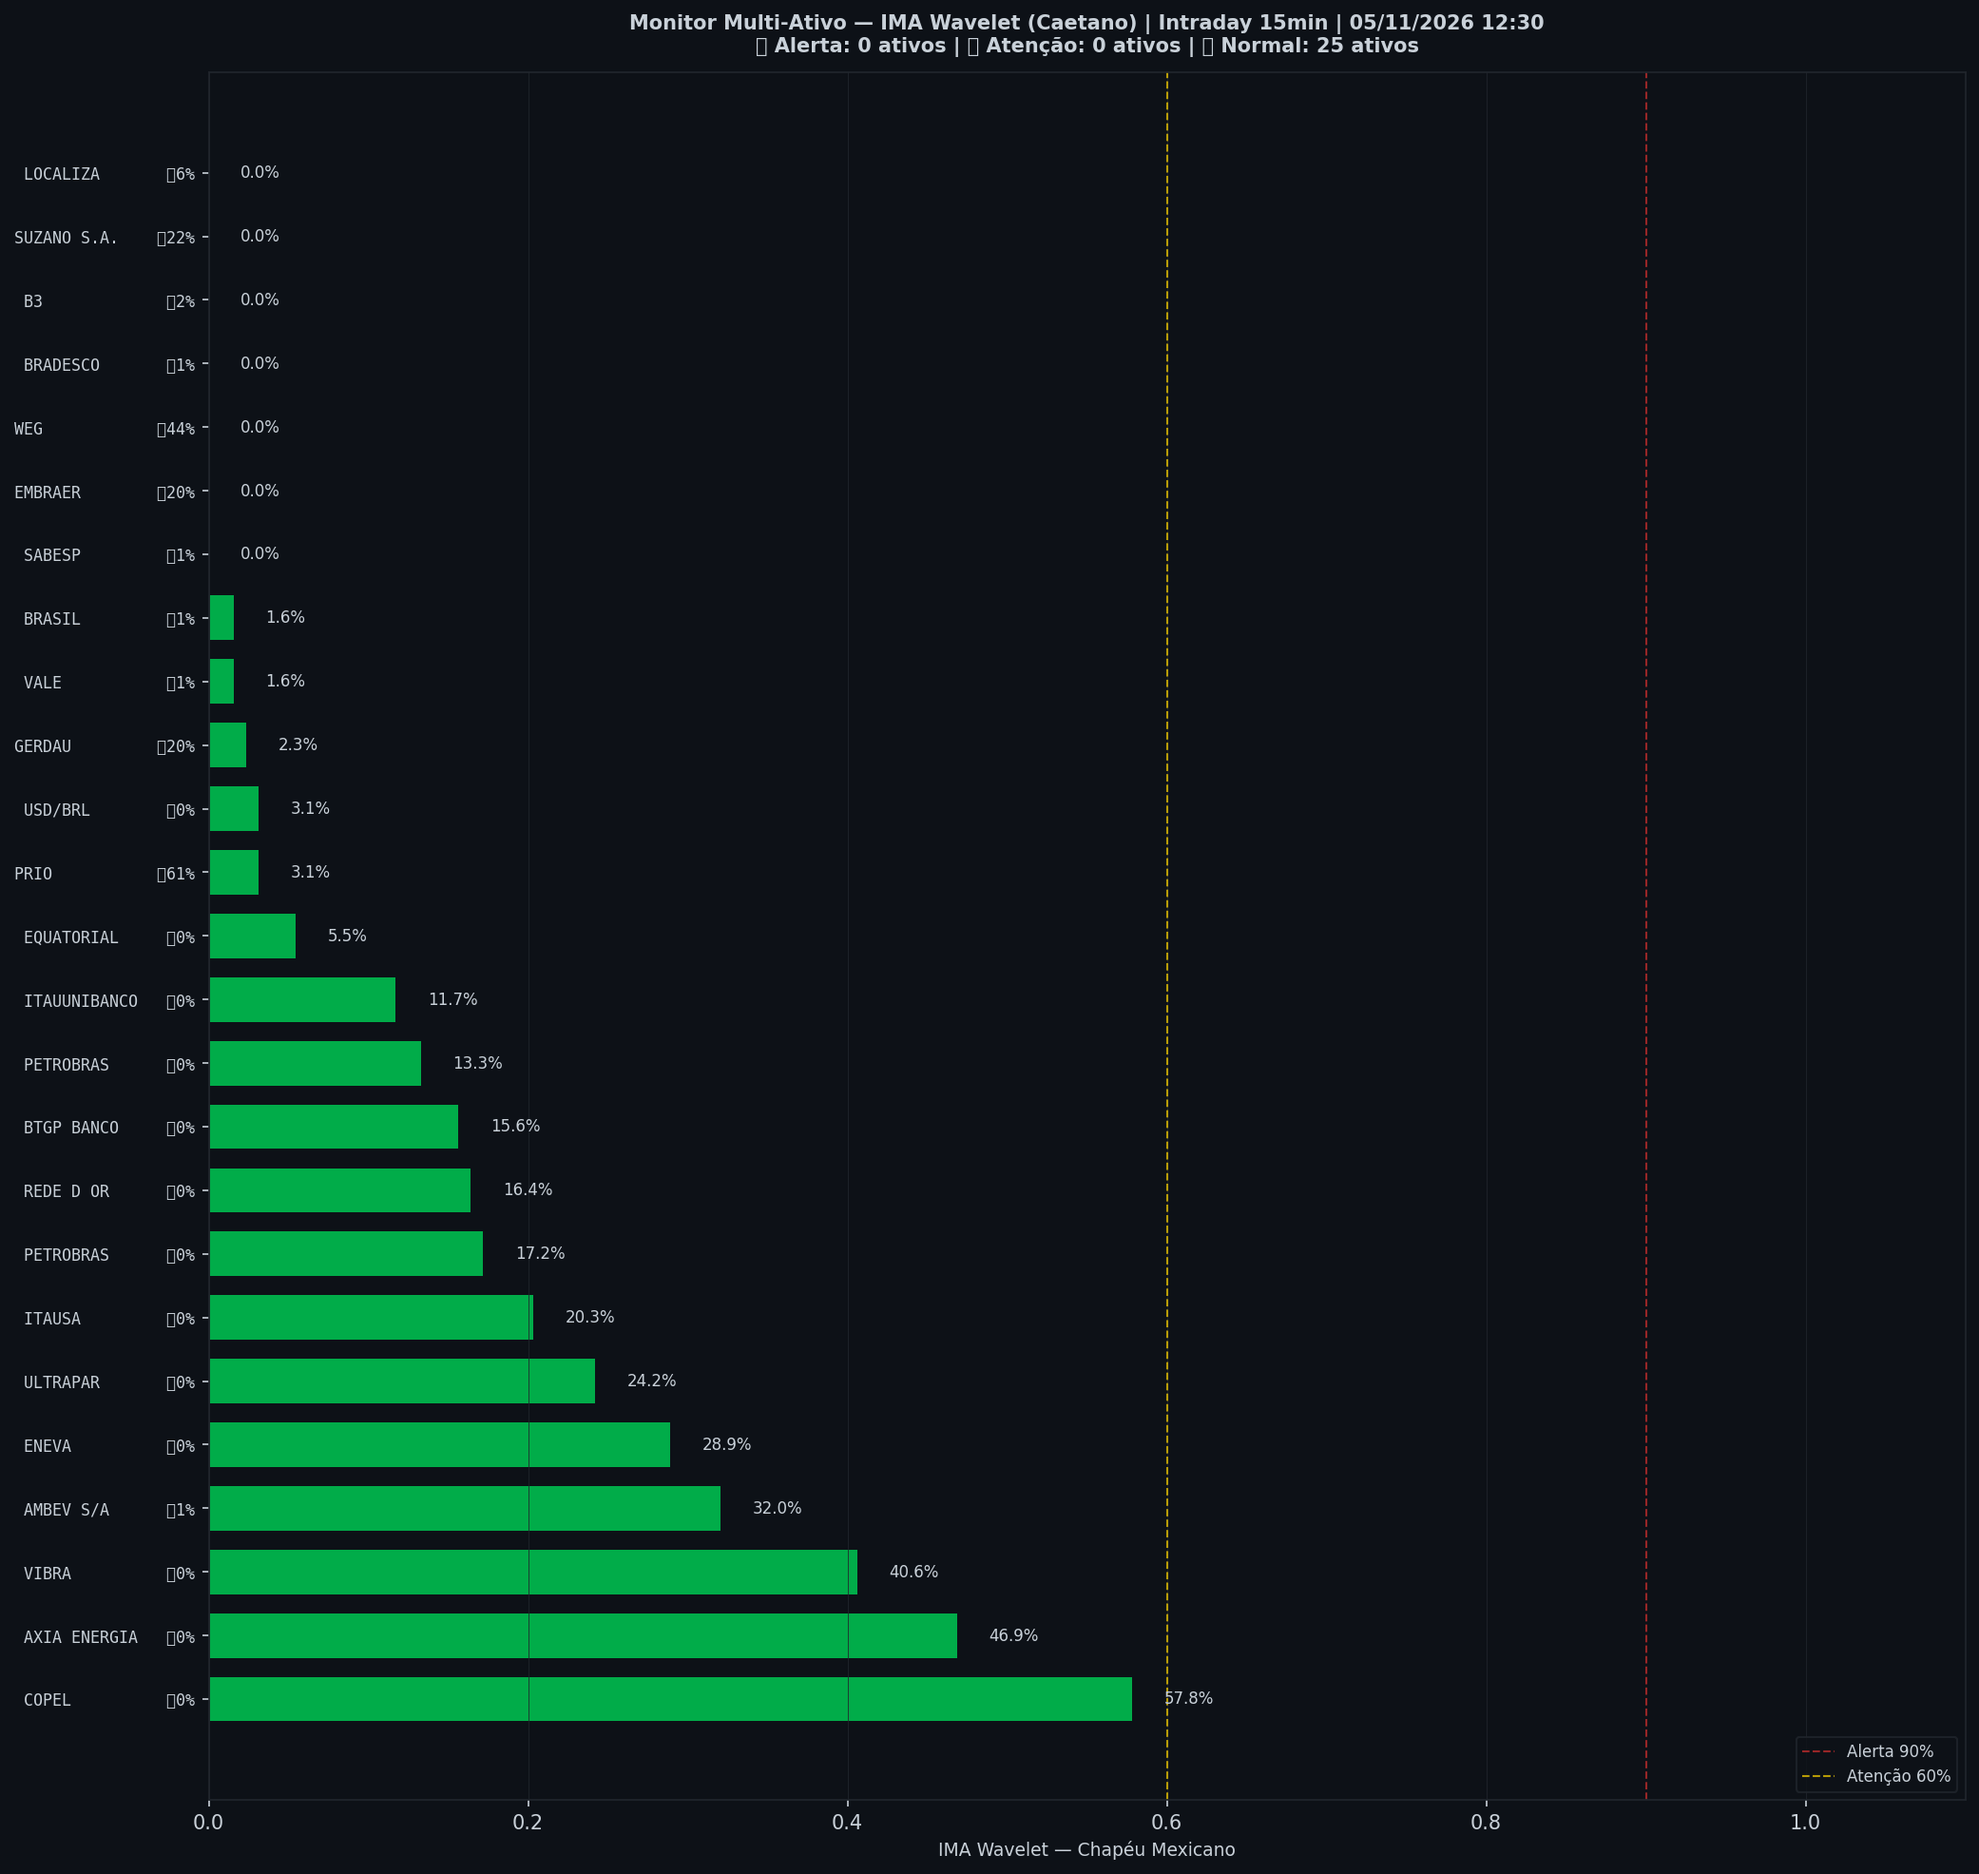
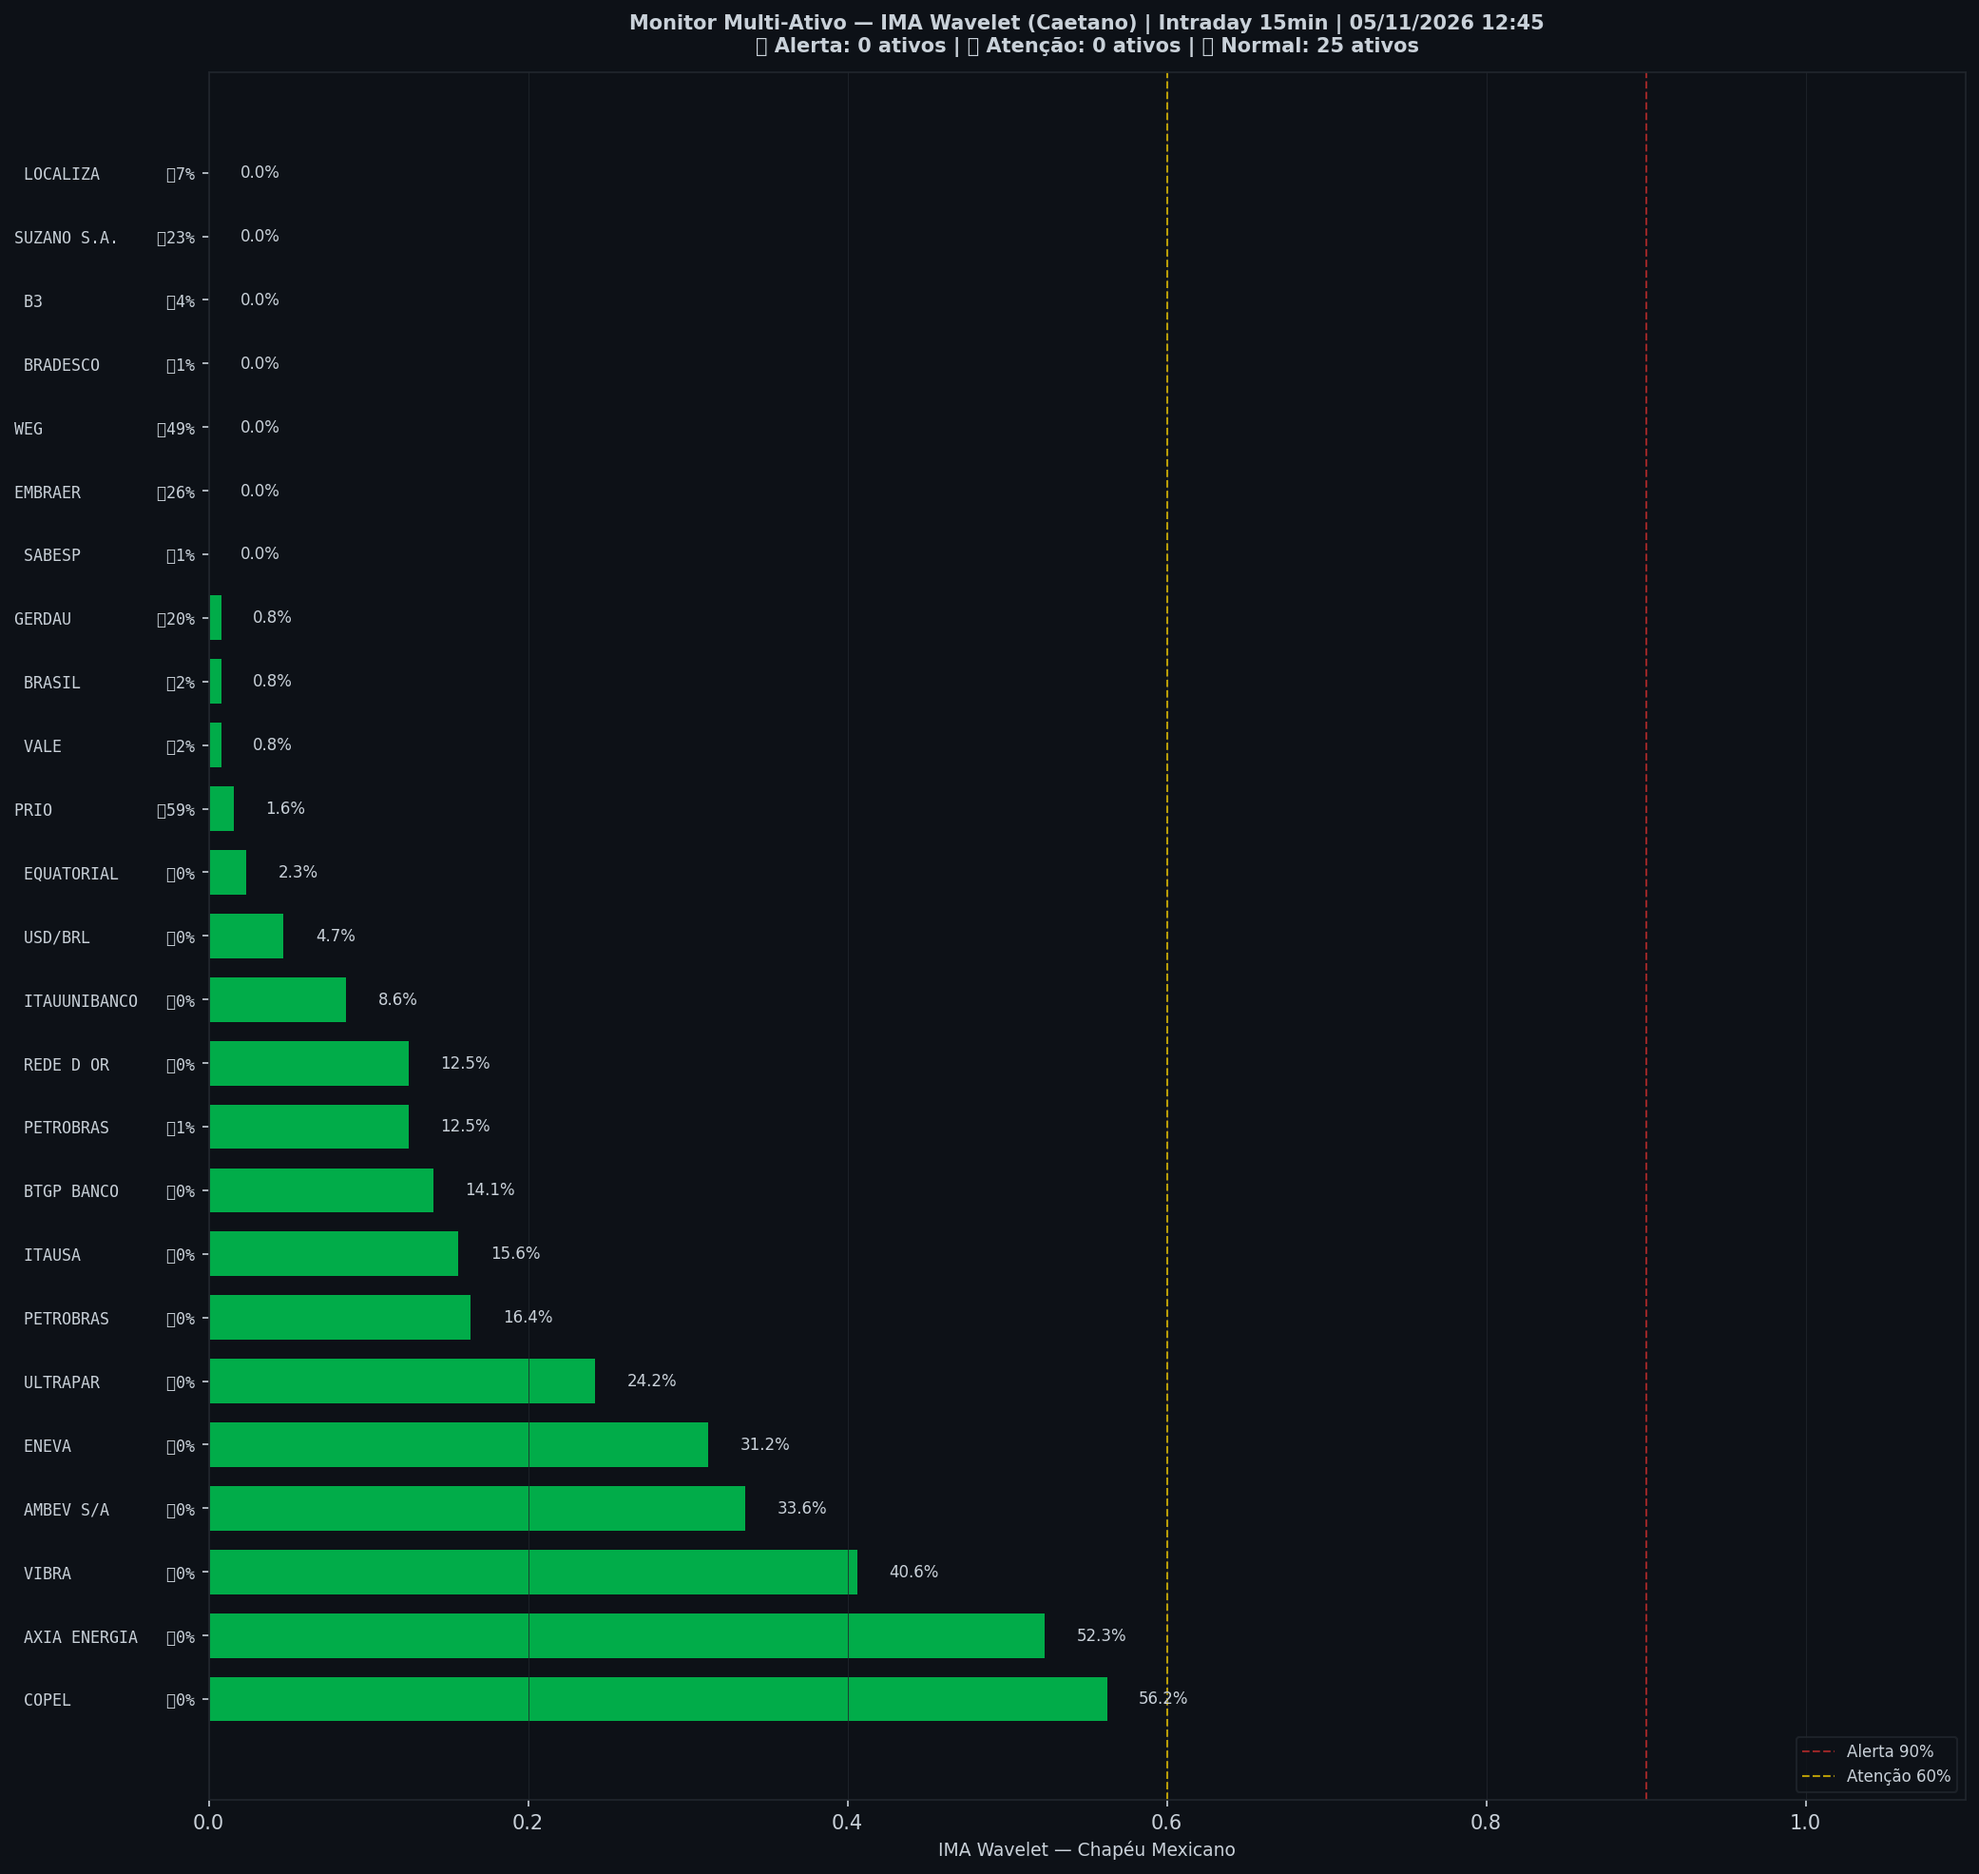
🤖 Auto: Sinal 05/11/2026 12:45

diff --git a/content/intraday/2026-11-05.md b/content/intraday/2026-11-05.md
@@ -1,11 +1,11 @@
 ---
-title: "🟢 Intraday 05/11/2026 12:15 BRT — VERDE"
+title: "🟢 Intraday 05/11/2026 12:30 BRT — VERDE"
 date: 2026-11-05
 tags: [intraday]
 ---
 
-> [!success] Onde o mercado está agora (05/11 12:15, candles de 15 min): **🟢 Calmo**
-> `Pânico ◀───────────●─────────▶ Euforia`
+> [!success] Onde o mercado está agora (05/11 12:30, candles de 15 min): **🟢 Calmo**
+> `Pânico ◀──────────●──────────▶ Euforia`
 >
 > O Ibovespa está dentro da sua faixa normal, sem excesso para cima nem para baixo.
 > No gráfico diário: 🔪 Queda forte em curso.
@@ -20,8 +20,8 @@ tags: [intraday]
 > | 📍 **Sinais** | hoje: nenhum sinal | [abrir](sinais-topo-fundo/) |
 > | 🧪 **Placar ao vivo** | 1 operação(ões), 0 com lucro, soma -0,8% | [abrir](operacoes/) |
 
-> [!success] IMA Intraday · 15 min (05/11 12:15): 🟢 **VERDE** — Risco 9% · ▼ -5 p.p. vs leitura anterior
-> `██░░░░░░░░░░░░░░░░░░`
+> [!success] IMA Intraday · 15 min (05/11 12:30): 🟢 **VERDE** — Risco 2% · ▼ -6 p.p. vs leitura anterior
+> `░░░░░░░░░░░░░░░░░░░░`
 > Preço na faixa normal em torno da tendência.
 
 
@@ -32,13 +32,13 @@ tags: [intraday]
 >
 > *Leitura educacional baseada em 26 anos de dados, não recomendação. [Como usar](../metodologia/crise#3-como-usar-na-prática).*
 
-| Indicador — IMA Intraday · 15 min (05/11 12:15) | Valor |
+| Indicador — IMA Intraday · 15 min (05/11 12:30) | Valor |
 |---|---|
-| 🔴 ζ Topo — preço esticado acima da tendência | **9%** |
-| 🔵 ζ Fundo — preço esticado abaixo da tendência | 0% |
+| 🔴 ζ Topo — preço esticado acima da tendência | **2%** |
+| 🔵 ζ Fundo — preço esticado abaixo da tendência | 1% |
 | 🫧 LPPL bolha — alta super-exponencial (risco de crash) | 0% |
 | 🫧 LPPL antibolha — queda super-exponencial (risco de repique) | 0% |
-| 📊 Ibovespa | 167.049 pts |
+| 📊 Ibovespa | 166.821 pts |
 
 ![Gráfico do sinal](../graficos/sinal_intraday.png)
 
@@ -46,6 +46,7 @@ tags: [intraday]
 
 | Data | Zona | Evento | Risco | ζ Topo | ζ Fundo | LPPL |
 |---|---|---|---|---|---|---|
+| 2026-11-05 12:30 | 🟢 VERDE |  | **2%** | 2% | 1% | 0% |
 | 2026-11-05 12:15 | 🟢 VERDE |  | **9%** | 9% | 0% | 0% |
 | 2026-11-05 12:00 | 🟢 VERDE |  | **13%** | 13% | 0% | 0% |
 | 2026-11-05 11:45 | 🟢 VERDE |  | **12%** | 12% | 0% | 0% |
@@ -75,42 +76,38 @@ tags: [intraday]
 | 2026-11-04 12:45 | 🟢 VERDE |  | **36%** | 36% | 0% | 0% |
 | 2026-11-04 12:30 | 🟢 VERDE |  | **33%** | 33% | 0% | 0% |
 | 2026-11-04 12:15 | 🟢 VERDE |  | **34%** | 34% | 0% | 0% |
-| 2026-11-04 12:00 | 🟢 VERDE |  | **34%** | 34% | 0% | 0% |
 
 <small>Destaques: 🟡 ≥ 60% · 🔴 ≥ 90% (Risco e ζ Topo) · 🔵 ≥ 60% · 🔪 ≥ 90% (ζ Fundo) · 🫧 ≥ 30% · 🫧🔴 ≥ 50% (LPPL)</small>
 
 ## Monitor Multi-Ativo
 
-**0% dos ativos em tensão** (0🔴 0🟡) · **1 com ζ Fundo alto** — quanto mais ativos disparam juntos, mais confiável o sinal.
-
-> [!warning] Em destaque no multi-ativo
-> 🔵 **PRIO** ζ Fundo 61%
+**0% dos ativos em tensão** (0🔴 0🟡) · **0 com ζ Fundo alto** — quanto mais ativos disparam juntos, mais confiável o sinal.
 
 | Zona | Ativo | Setor | ζ Topo | ζ Fundo |
 |---|---|---|---|---|
-| 🟢 | **PRIO** | Petróleo | 3.1% | 🔵 **60.9%** |
-| 🟢 | **COPEL** | Energia | 57.8% | 0.0% |
-| 🟢 | **AXIA ENERGIA** | Energia | 46.9% | 0.0% |
-| 🟢 | **WEG** | Industrial | 0.0% | 43.8% |
+| 🟢 | **PRIO** | Petróleo | 1.6% | 59.4% |
+| 🟢 | **COPEL** | Energia | 56.2% | 0.0% |
+| 🟢 | **AXIA ENERGIA** | Energia | 52.3% | 0.0% |
+| 🟢 | **WEG** | Industrial | 0.0% | 49.2% |
 | 🟢 | **VIBRA** | Energia | 40.6% | 0.0% |
-| 🟢 | **AMBEV S/A** | Consumo | 32.0% | 0.8% |
-| 🟢 | **ENEVA** | Energia | 28.9% | 0.0% |
+| 🟢 | **AMBEV S/A** | Consumo | 33.6% | 0.0% |
+| 🟢 | **ENEVA** | Energia | 31.2% | 0.0% |
+| 🟢 | **EMBRAER** | Outros | 0.0% | 25.8% |
 | 🟢 | **ULTRAPAR** | Outros | 24.2% | 0.0% |
-| 🟢 | **SUZANO S.A.** | Papel/Celulose | 0.0% | 21.9% |
-| 🟢 | **ITAUSA** | Financeiro | 20.3% | 0.0% |
-| 🟢 | **EMBRAER** | Outros | 0.0% | 20.3% |
-| 🟢 | **GERDAU** | Siderurgia | 2.3% | 20.3% |
-| 🟢 | **PETROBRAS** | Petróleo | 17.2% | 0.0% |
-| 🟢 | **REDE D OR** | Saúde | 16.4% | 0.0% |
-| 🟢 | **BTGP BANCO** | Financeiro | 15.6% | 0.0% |
-| 🟢 | **PETROBRAS** | Petróleo | 13.3% | 0.0% |
-| 🟢 | **ITAUUNIBANCO** | Financeiro | 11.7% | 0.0% |
-| 🟢 | **LOCALIZA** | Aluguel | 0.0% | 6.2% |
-| 🟢 | **EQUATORIAL** | Energia | 5.5% | 0.0% |
-| 🟢 | **USD/BRL** | Câmbio | 3.1% | 0.0% |
-| 🟢 | **B3** | Financeiro | 0.0% | 2.3% |
-| 🟢 | **VALE** | Mineração | 1.6% | 0.8% |
-| 🟢 | **BRASIL** | Financeiro | 1.6% | 0.8% |
+| 🟢 | **SUZANO S.A.** | Papel/Celulose | 0.0% | 23.4% |
+| 🟢 | **GERDAU** | Siderurgia | 0.8% | 19.5% |
+| 🟢 | **PETROBRAS** | Petróleo | 16.4% | 0.0% |
+| 🟢 | **ITAUSA** | Financeiro | 15.6% | 0.0% |
+| 🟢 | **BTGP BANCO** | Financeiro | 14.1% | 0.0% |
+| 🟢 | **PETROBRAS** | Petróleo | 12.5% | 0.8% |
+| 🟢 | **REDE D OR** | Saúde | 12.5% | 0.0% |
+| 🟢 | **ITAUUNIBANCO** | Financeiro | 8.6% | 0.0% |
+| 🟢 | **LOCALIZA** | Aluguel | 0.0% | 7.0% |
+| 🟢 | **USD/BRL** | Câmbio | 4.7% | 0.0% |
+| 🟢 | **B3** | Financeiro | 0.0% | 3.9% |
+| 🟢 | **BRASIL** | Financeiro | 0.8% | 2.3% |
+| 🟢 | **EQUATORIAL** | Energia | 2.3% | 0.0% |
+| 🟢 | **VALE** | Mineração | 0.8% | 1.6% |
 | 🟢 | **SABESP** | Saneamento | 0.0% | 0.8% |
 | 🟢 | **BRADESCO** | Financeiro | 0.0% | 0.8% |
 
@@ -118,7 +115,7 @@ tags: [intraday]
 
 ![Monitor multi-ativo](../graficos/multi_intraday.png)
 
-*Página atualizada em 05/11/2026 12:30 BRT (leitura da barra de 2026-11-05 12:15 BRT).*
+*Página atualizada em 05/11/2026 12:45 BRT (leitura da barra de 2026-11-05 12:30 BRT).*
 
 > [!warning] O que este indicador não faz
 > Medido em 5 anos de Ibovespa, o ζ **não antecipa** topos nem fundos: a capacidade de separar o que sobe do que cai ficou em 0,49–0,52, e 0,50 é moeda jogada ao ar. Ele descreve o estado de agora; não é aviso do que vem. As zonas verde/amarelo/vermelho continuam na página como descrição desse estado — **não as use como sinal de entrada ou saída**.

diff --git a/content/index.md b/content/index.md
@@ -6,10 +6,10 @@ tags: [home]
 
 **As ondas do mercado, explicadas.** Leitura do Ibovespa com estatística de 26 anos, baseada no trabalho de pesquisadores e traders reconhecidos e adaptada por Jarbas Daniel da Costa.
 
-*Última atualização: 05/11/2026 12:30 BRT · Intraday 15min*
+*Última atualização: 05/11/2026 12:45 BRT · Intraday 15min*
 
-> [!success] Onde o mercado está agora (05/11 12:15, candles de 15 min): **🟢 Calmo**
-> `Pânico ◀───────────●─────────▶ Euforia`
+> [!success] Onde o mercado está agora (05/11 12:30, candles de 15 min): **🟢 Calmo**
+> `Pânico ◀──────────●──────────▶ Euforia`
 >
 > O Ibovespa está dentro da sua faixa normal, sem excesso para cima nem para baixo.
 > No gráfico diário: 🔪 Queda forte em curso.
@@ -20,7 +20,7 @@ tags: [home]
 
 | Módulo | Agora | |
 |---|---|---|
-| 🌊 **Sinal de Crise** | 🟢 VERDE · 🟢 calmo · ζ Topo 9% | [relatório](intraday/2026-11-05) |
+| 🌊 **Sinal de Crise** | 🟢 VERDE · 🟢 calmo · ζ Topo 2% | [relatório](intraday/2026-11-05) |
 | 📈 **Tendência MME9** | Diário — fora<br>Semanal — fora | [abrir](operacoes/tendencia) |
 | 🎯 **Entradas do método** | ⏳ aguardando: Diário · Nadaraya, H4 · Semáforo N2, Diário · Semáforo N3 após ζ Fundo | [abrir](operacoes/entradas) |
 | 📍 **Sinais** | hoje: nenhum sinal | [abrir](sinais-topo-fundo/) |
@@ -54,18 +54,18 @@ tags: [home]
 > *Leitura educacional baseada em 26 anos de dados, não recomendação. [Como usar](metodologia/crise#3-como-usar-na-prática).*
 
 > [!info]- 🌊 Detalhes do Sinal de Crise (indicadores e últimos 7 pregões)
-> > [!success] IMA Intraday · 15 min (05/11 12:15): 🟢 **VERDE** — Risco 9% · ▼ -5 p.p. vs leitura anterior
-> > `██░░░░░░░░░░░░░░░░░░`
+> > [!success] IMA Intraday · 15 min (05/11 12:30): 🟢 **VERDE** — Risco 2% · ▼ -6 p.p. vs leitura anterior
+> > `░░░░░░░░░░░░░░░░░░░░`
 > > Preço na faixa normal em torno da tendência.
 >
 >
-> | Indicador — IMA Intraday · 15 min (05/11 12:15) | Valor |
+> | Indicador — IMA Intraday · 15 min (05/11 12:30) | Valor |
 > |---|---|
-> | 🔴 ζ Topo — preço esticado acima da tendência | **9%** |
-> | 🔵 ζ Fundo — preço esticado abaixo da tendência | 0% |
+> | 🔴 ζ Topo — preço esticado acima da tendência | **2%** |
+> | 🔵 ζ Fundo — preço esticado abaixo da tendência | 1% |
 > | 🫧 LPPL bolha — alta super-exponencial (risco de crash) | 0% |
 > | 🫧 LPPL antibolha — queda super-exponencial (risco de repique) | 0% |
-> | 📊 Ibovespa | 167.049 pts |
+> | 📊 Ibovespa | 166.821 pts |
 >
 > **Multi-ativo:** 0% em tensão (0🔴 0🟡 de 25 ativos)
 >
@@ -73,7 +73,7 @@ tags: [home]
 >
 > | Data | Zona | Risco | ζ Topo | ζ Fundo | LPPL |
 > |---|---|---|---|---|---|
-> | [05/11/2026](intraday/2026-11-05) | 🟢 VERDE | **9%** | 9% | 0% | 0% |
+> | [05/11/2026](intraday/2026-11-05) | 🟢 VERDE | **2%** | 2% | 1% | 0% |
 > | [04/11/2026](intraday/2026-11-04) | 🟢 VERDE | **4%** | 4% | 0% | 0% |
 >
 > <small>Destaques: 🟡 ≥ 60% · 🔴 ≥ 90% (Risco e ζ Topo) · 🔵 ≥ 60% · 🔪 ≥ 90% (ζ Fundo) · 🫧 ≥ 30% · 🫧🔴 ≥ 50% (LPPL)</small>

diff --git a/content/historico.md b/content/historico.md
@@ -5,7 +5,7 @@ tags: [historico]
 
 # 📜 Histórico de leituras (v5)
 
-**2.152 leituras** desde 2026-07-03. Na página ficam os últimos 3 dias leitura por leitura e o resumo de cada dia anterior; o registro inteiro está no arquivo para baixar.
+**2.153 leituras** desde 2026-07-03. Na página ficam os últimos 3 dias leitura por leitura e o resumo de cada dia anterior; o registro inteiro está no arquivo para baixar.
 
 [**Baixar o histórico completo**](historico-completo.csv) (94 KB · abre no Excel e no LibreOffice)
 
@@ -16,6 +16,7 @@ tags: [historico]
 
 | Data | Modo | Zona | Risco | IMA | LPPL |
 |---|---|---|---|---|---|
+| 2026-11-05 12:30 | intraday | 🟢 VERDE | 2% | 2% | 0% |
 | 2026-11-05 12:15 | intraday | 🟢 VERDE | 9% | 9% | 0% |
 | 2026-11-05 12:00 | intraday | 🟢 VERDE | 13% | 13% | 0% |
 | 2026-11-05 11:45 | intraday | 🟢 VERDE | 12% | 12% | 0% |

diff --git a/content/operacoes/ranking.md b/content/operacoes/ranking.md
@@ -5,7 +5,7 @@ tags: [operacoes]
 description: "As regras de compra do site ordenadas pelo resultado, com treino, teste e placar ao vivo"
 ---
 
-*Atualizado 05/11/2026 12:30 · histórico simulado com as regras congeladas em 23/10/2026 + placar ao vivo.*
+*Atualizado 05/11/2026 12:45 · histórico simulado com as regras congeladas em 23/10/2026 + placar ao vivo.*
 
 As regras de compra do site, **da que mais rendeu para a que menos rendeu**. O resultado é por operação, no índice à vista, sem custos e sem juros compostos (a soma é só a soma das operações). **Treino** = entradas de 2001 a 2013 e **teste** = 2014 em diante: uma regra só é confiável se ganhou nos dois. O único resultado sem nenhum ajuste ao histórico é o **placar ao vivo**.
 

diff --git a/content/linha-do-tempo/index.md b/content/linha-do-tempo/index.md
@@ -5,7 +5,7 @@ description: "Todo sinal, ordem, stop e aviso do Pêndulo de Mercado, do mais re
 tags: [eventos]
 ---
 
-*Atualizada 05/11/2026 12:30 BRT · a cada 15 min no pregão e às 19h.*
+*Atualizada 05/11/2026 12:45 BRT · a cada 15 min no pregão e às 19h.*
 
 Tudo o que o sistema fez ou detectou, **do mais recente para o mais antigo**: sinais de topo e fundo, ordens de compra e de venda armadas, compras, vendas, stops, avisos de 🚨 preço perto do nível e mudanças da Crise. Os **últimos 7 dias** ficam abertos; o resto, por **ano → mês → dia**.
 
